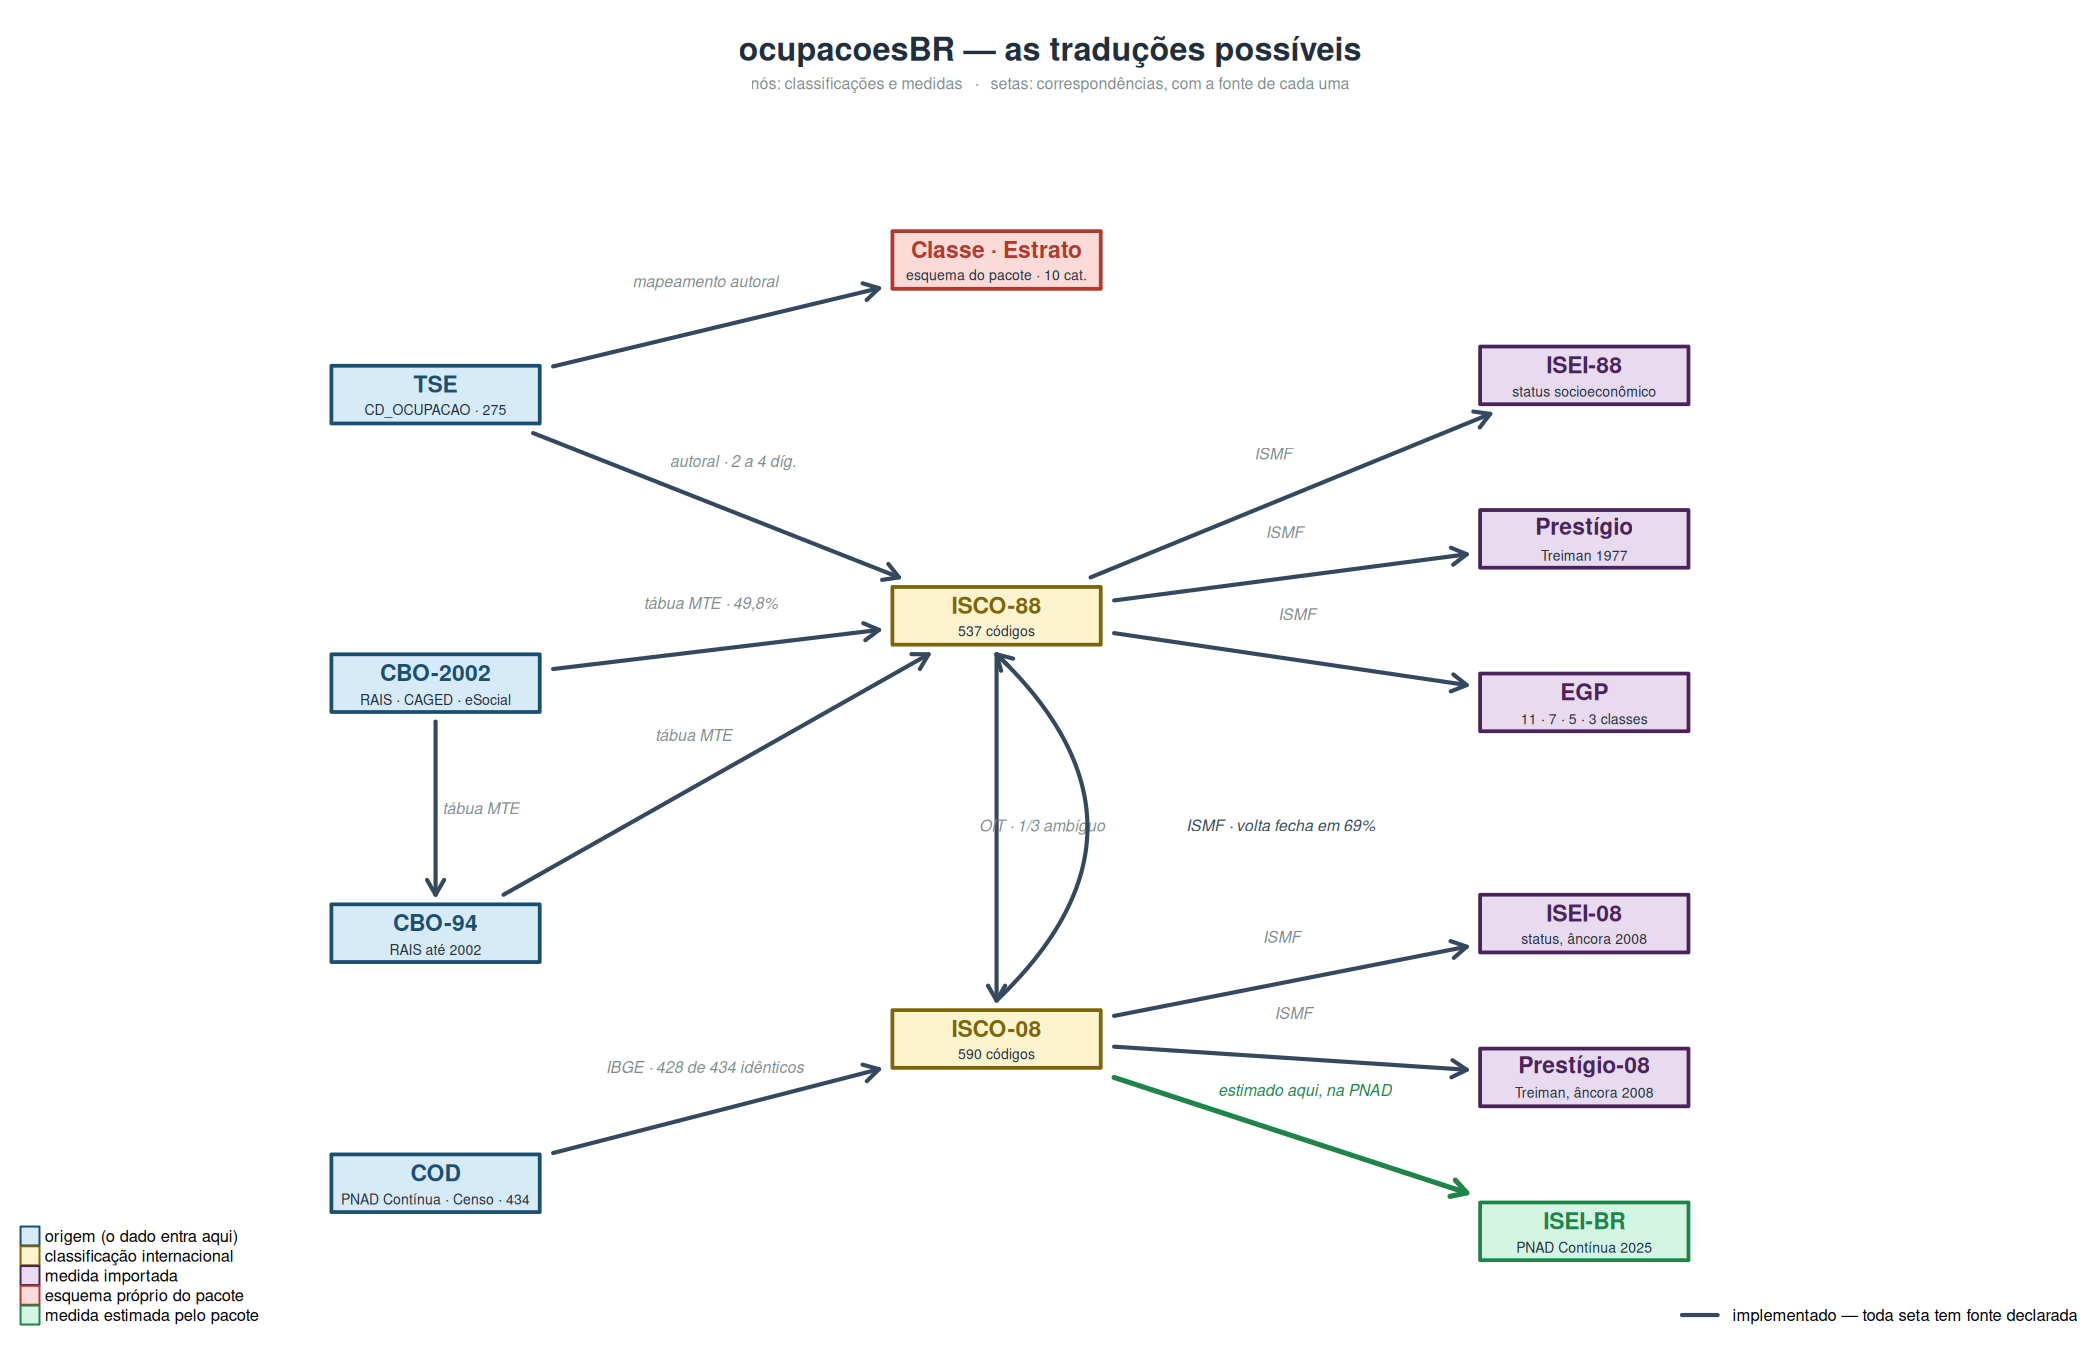
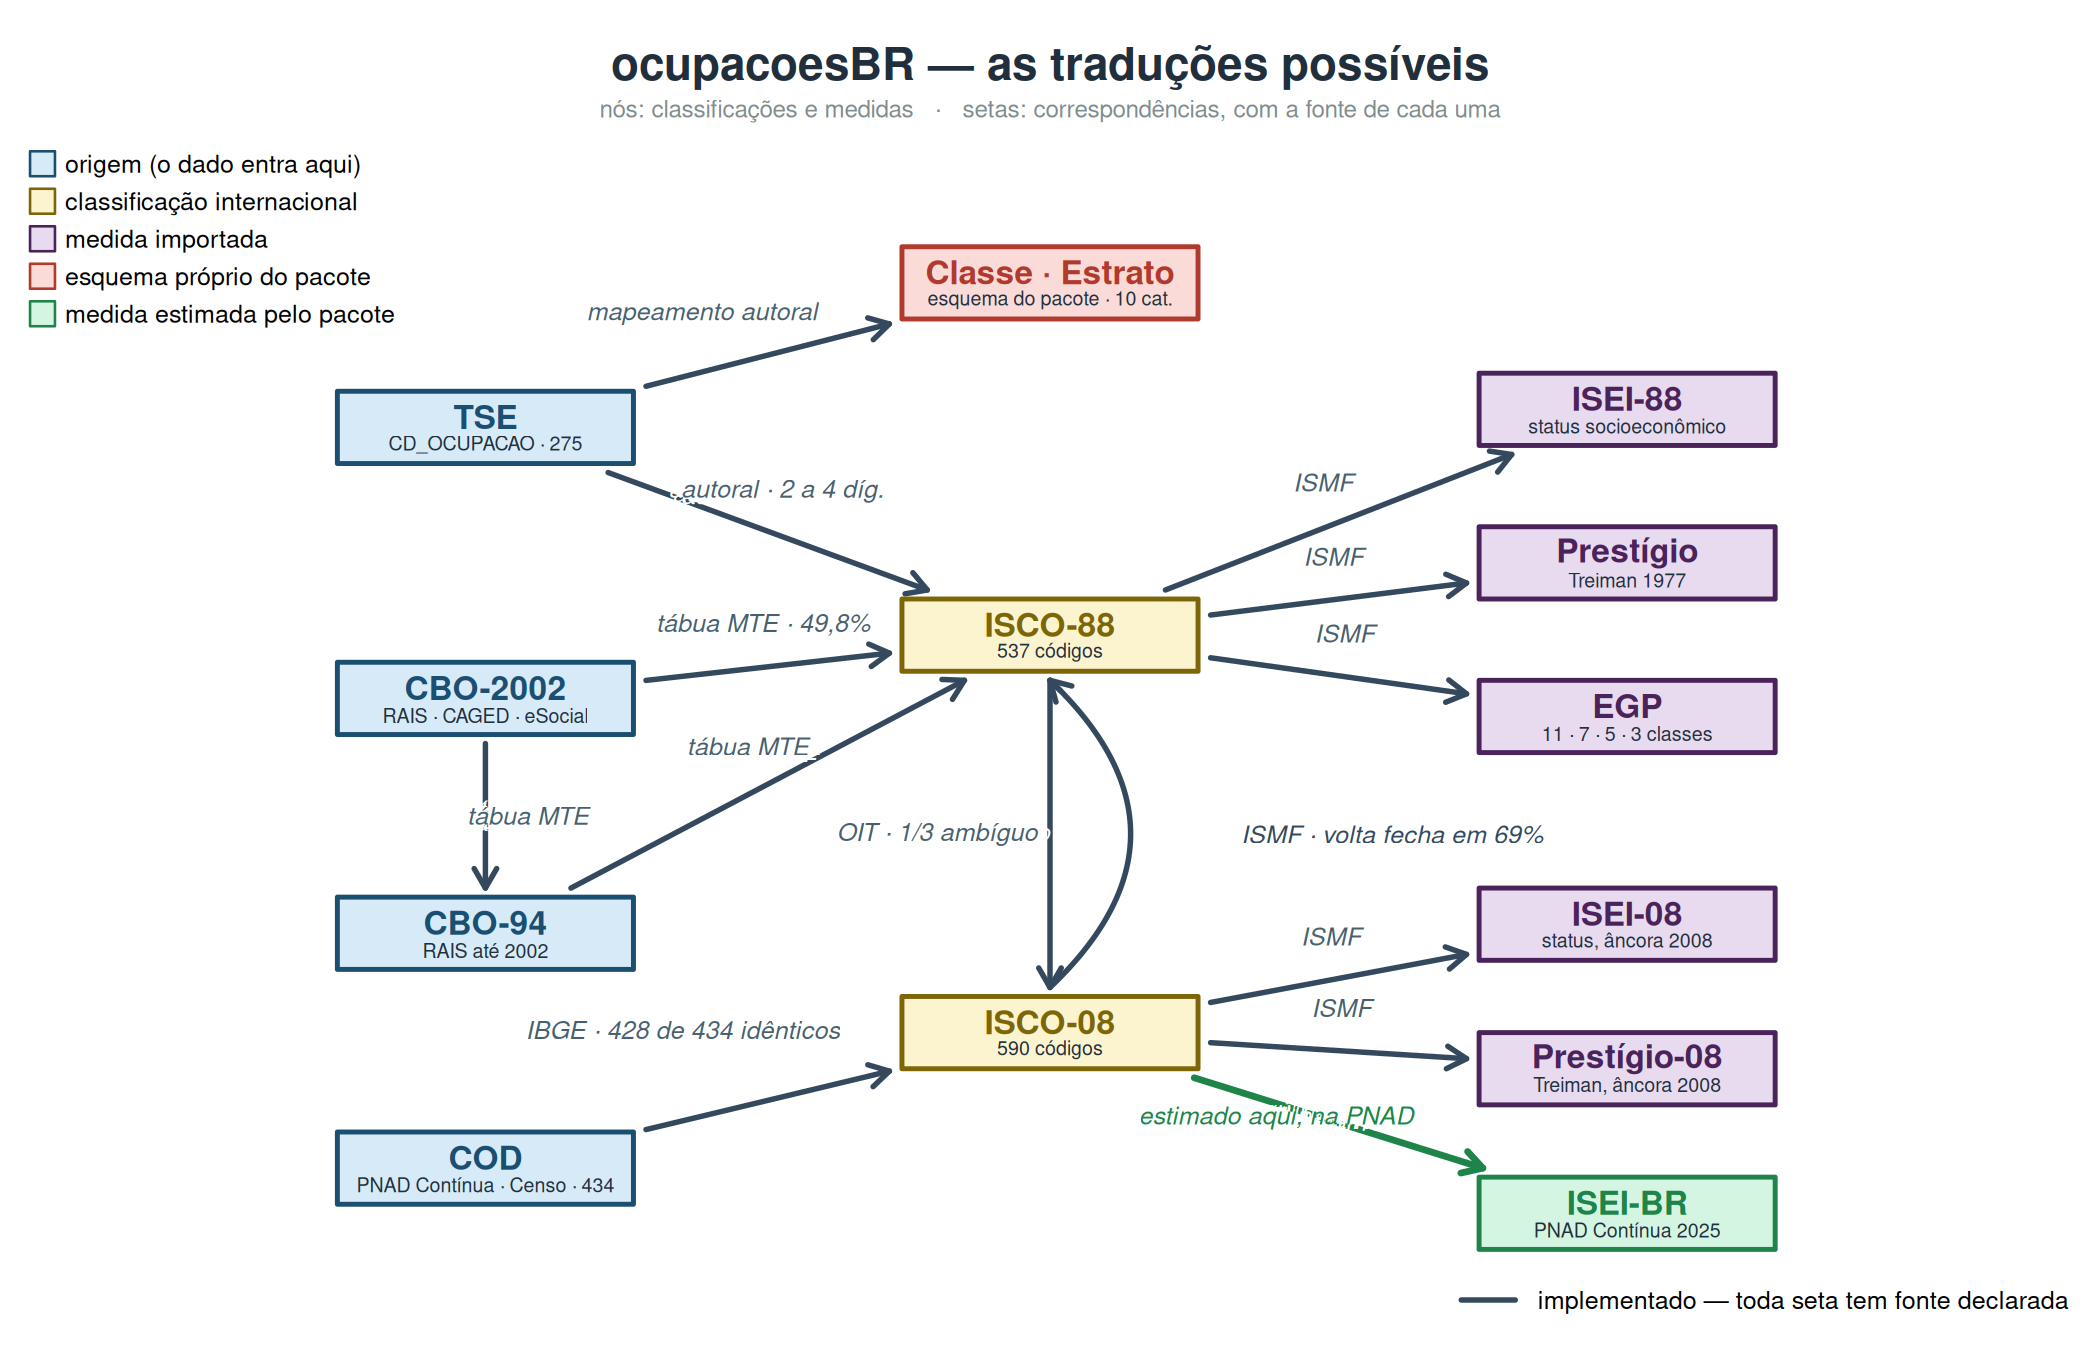
Da ao mapa das traducoes uma tipografia que se le no tamanho em que ele aparece
A figura era desenhada para ser vista grande e o site a exibe com cerca de
620px, menos de um terco do nativo. Nesse tamanho os rotulos das setas -- que
sao o conteudo do diagrama, porque cada um declara a FONTE de uma traducao --
viravam manchas cinza de tres pontos. A informacao estava la e ninguem podia
le-la.

O que mudou, e por que cada coisa:

O `res` sobe de 190 para 250. Ele governa a razao entre o texto, medido em
pontos, e o desenho, medido em coordenadas: subi-lo aumenta a tipografia em
relacao as caixas sem mexer no layout.

Os rotulos de seta sobem de cex 0.5 para 0.60 e trocam o cinza lavado
(#7F8C8D) por um tom que aguenta a reducao (#48606E). Ganham halo: o texto e
desenhado oito vezes em branco, deslocado, antes de ser desenhado na cor
certa, o que abre um vao claro em volta das letras. Sem isso um rotulo que
cruza uma seta fica ilegivel por cima dela.

As caixas crescem junto (LARG 0.78 -> 1.18, ALT 0.30 -> 0.40) porque com o
texto maior a sublinha transbordava: "CD_OCUPACAO - 275" saia da caixa do TSE.
As colunas se afastam para as caixas maiores nao se tocarem.

A legenda de categorias sai do canto de baixo a esquerda, onde cobria a caixa
COD, e vai para o vazio de cima a esquerda.

As arestas ganham ajx/ajy, deslocamento manual do rotulo. Existem porque o
deslocamento perpendicular automatico poe os rotulos das duas setas entre
ISCO-88 e ISCO-08 exatamente no mesmo ponto: uma e reta, a outra e arco, e os
[…]

Changed region(s): [[0.0, 0.0933, 0.9905, 0.9956], [0.2786, 0.0311, 0.7119, 0.0933], [0.0, 0.9022, 0.1238, 0.9956]]

diff --git a/pkgdown/extra.css b/pkgdown/extra.css
@@ -199,6 +199,12 @@ body > .container:not(.template-home) main table {
 .ocb-btn-nu { padding: 12px 6px; }
 
 .ocb-badges { display: flex; align-items: center; gap: 8px; flex-wrap: wrap; }
+/* O markdown embrulha o conteudo do bloco num <p>, de modo que os badges nao
+   sao filhos diretos de .ocb-badges: o align-items acima nao os alcancava, e
+   cada um se alinhava pela linha de base do texto. Como o badge do Actions e
+   uma imagem e os outros sao spans, a imagem ficava fora de eixo. A correcao e
+   fazer do proprio <p> o flex container. */
+.ocb-badges p { display: flex; align-items: center; gap: 8px; flex-wrap: wrap; margin: 0; }
 .ocb-badge {
   display: inline-flex; font-size: 12px; font-weight: 600;
   border-radius: 4px; overflow: hidden;
@@ -207,12 +213,18 @@ body > .container:not(.template-home) main table {
 .ocb-badge-k { background: var(--ocb-sup); color: var(--ocb-texto); padding: 3px 8px; }
 .ocb-badge-v { background: #1E8A99; color: #FFFFFF; padding: 3px 8px; }
 .ocb-badge-v.ocb-verde { background: #2E9E5B; }
+/* O mapa e denso e o site o exibe com cerca de 620px. Quem quiser conferir uma
+   seta abre o arquivo em tamanho cheio; a lupa no cursor e o unico aviso de que
+   da para fazer isso. */
+.ocb-moldura a { display: block; cursor: zoom-in; }
+
 .ocb-badge-img { display: inline-flex; }
-.ocb-badge-img img { height: 22px; display: block; }
+/* 25px e a altura que os badges proprios tomam do seu proprio texto. */
+.ocb-badge-img img { height: 25px; display: block; }
 
 .ocb-hero-arte { display: flex; justify-content: center; align-items: center; }
 .ocb-hero-arte img {
-  width: 100%; max-width: 620px; height: auto;
+  width: 100%; max-width: 420px; height: auto;
   /* A arte do hero e o proprio logo do pacote (man/figures/logo.png): um
      hexagono regular de 600x600 com fundo TRANSPARENTE. Por isso aqui nao ha
      cartao -- nem cor de fundo, nem border-radius, nem sombra retangular, que

diff --git a/index.md b/index.md
@@ -63,7 +63,7 @@ oficial.
 
 </div>
 <div class="ocb-moldura">
-<img src="reference/figures/rede_crosswalks.png" alt="As traduções que o pacote faz, e as que não faz" />
+<a href="reference/figures/rede_crosswalks.png" title="Abrir o mapa em tamanho cheio"><img src="reference/figures/rede_crosswalks.png" alt="As traduções que o pacote faz, e as que não faz" /></a>
 </div>
 </div>
 
